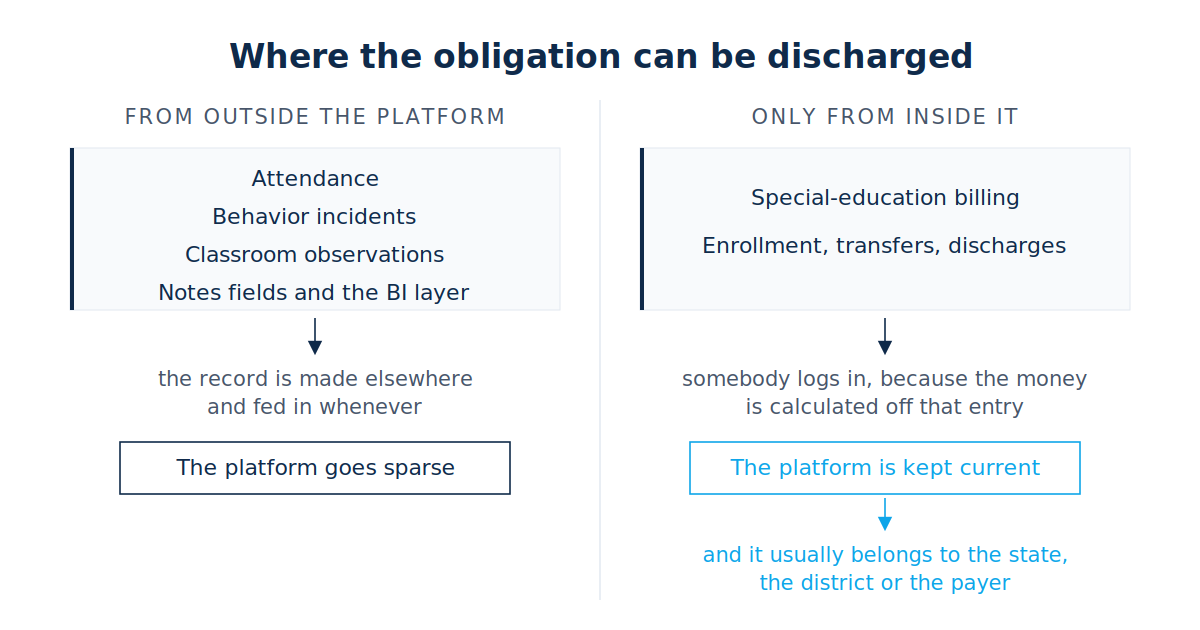
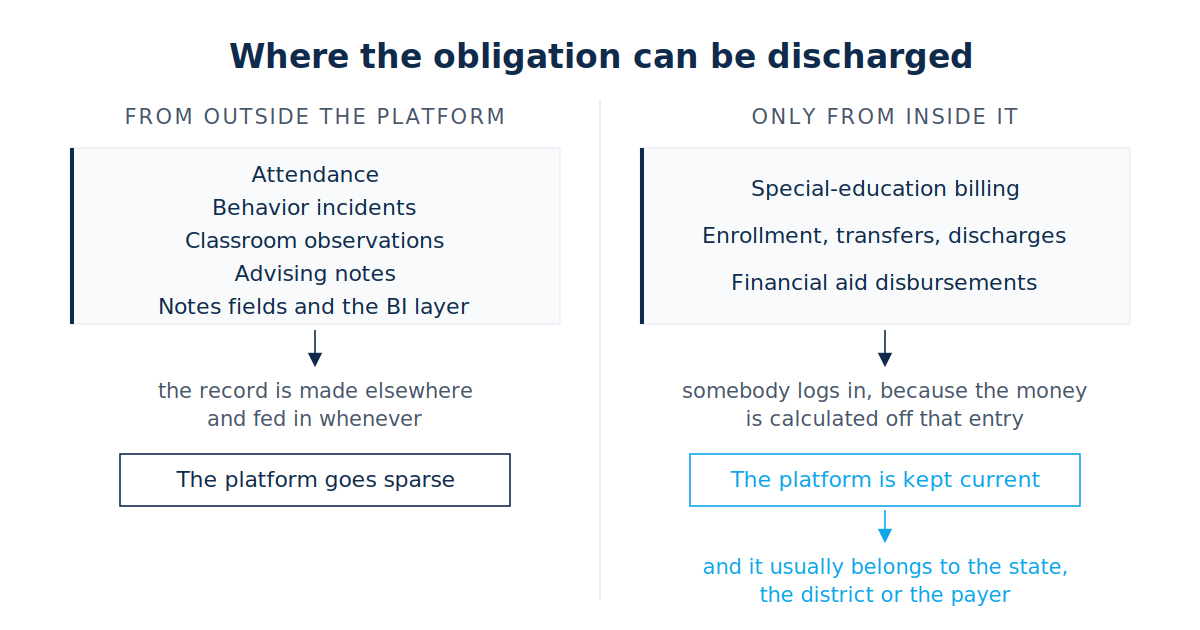
For the record: fold v1.17-v1.19
v1.17 Gate 5: the shadow-IT reframe re-attributed from Novid Parsi to Joel Larson
v1.18 higher education added to Whose record is it (FSA 15-day COD clock), and
      advising notes added to the can-be-fed-later group
v1.19 figure rebuilt to match: advising notes and financial aid disbursements
      added, boxes taller, everything below shifted down

Figure verified: all labels at or above the 21px floor, nothing outside the
canvas, nothing crossing the divider (the title spans it by design, above the
line's y-start). MD/JSX back in sync at 76/76 units.

diff --git a/app/library/essays.tsx b/app/library/essays.tsx
@@ -10081,10 +10081,10 @@ export const ESSAYS: Essay[] = [
           There is a sharper version of this, and it sorts an organization&rsquo;s own platforms rather than its systems in general. Walk the portfolio and two groups come apart. The line between them is not compliance. Student discipline is collected federally, by a mandatory survey of all public school districts that covers discipline alongside enrollment and school climate (<a href="https://www.ed.gov/laws-and-policy/civil-rights-laws/civil-rights-data-collection-crdc" target="_blank" rel="noopener" className="text-accent hover:text-accent-2 no-underline border-b border-line-2 hover:border-accent pb-px">Civil Rights Data Collection</a>, U.S. Department of Education). Where a state requires classroom observations, that is an obligation too. Both groups carry one.
         </P>
         <P>
-          One group is kept current, even where every entry is manual. These are the systems an obligation can only be discharged inside. A special-education billing claim is filed from within the billing system, against each entry, and nothing outside it files the claim. Enrollment events, a transfer in or a discharge or a withdrawal, are recorded in the district&rsquo;s own student information system, which school staff reach with credentials that district issues, and the count that matters for funding is the one in there, not the copy the school holds in its own system. In both cases the money is calculated off an entry made in somebody else&rsquo;s system. That is what makes the obligation undischargeable from outside. A local file satisfies neither one, however carefully it is kept, so somebody has to log in.
+          One group is kept current, even where every entry is manual. These are the systems an obligation can only be discharged inside. A special-education billing claim is filed from within the billing system, against each entry, and nothing outside it files the claim. Enrollment events, a transfer in or a discharge or a withdrawal, are recorded in the district&rsquo;s own student information system, which school staff reach with credentials that district issues, and the count that matters for funding is the one in there, not the copy the school holds in its own system. Higher education runs the same way, with a clock attached. A school has fifteen calendar days to report a Pell or Direct Loan disbursement into the Department of Education&rsquo;s Common Origination and Disbursement system, which the school does not own, and it draws the funds down from the Department rather than from anything it holds itself (<a href="https://fsapartners.ed.gov/knowledge-center/fsa-handbook/2025-2026/vol4/ch2-disbursing-title-iv-funds" target="_blank" rel="noopener" className="text-accent hover:text-accent-2 no-underline border-b border-line-2 hover:border-accent pb-px">Federal Student Aid Handbook 2025-26, volume 4</a>). In each case the money is calculated off an entry made in somebody else&rsquo;s system. That is what makes the obligation undischargeable from outside. A local file satisfies none of them, however carefully it is kept, so somebody has to log in.
         </P>
         <P>
-          The other group can be fed later, and nothing governs how much later. Attendance is taken on paper or in a sheet and entered at the end of the day, or the next day, or at the end of the week. A behavior incident is written down somewhere and entered in retrospect. Nothing breaks when that slips, so nothing decides when it happens.
+          The other group can be fed later, and nothing governs how much later. Attendance is taken on paper or in a sheet and entered at the end of the day, or the next day, or at the end of the week. A behavior incident is written down somewhere and entered in retrospect. An advising note gets written between appointments, or after the term, or not at all. Nothing breaks when any of that slips, so nothing decides when it happens.
         </P>
         <P>
           The difference is not that one group is entered by hand and the other is not. Both are. A service delivered and a transfer recorded also begin as somebody&rsquo;s local note, before anyone logs in to file them. What changes is how long the note is allowed to sit there. Where a payment is calculated off the entry, the timing is not left to local habit, because somebody is waiting to be paid. Where nothing is calculated off it, the timing is whatever the week allows.
@@ -10114,7 +10114,7 @@ export const ESSAYS: Essay[] = [
           What that arrangement costs is worth stating, because everyone inside it already knows and nobody writes it down. The same record gets made twice. Once where the work happens, in a form the person can act on, and once where the obligation is discharged, in a form somebody outside requires. The organization pays for both, and only the second one is anybody&rsquo;s job.
         </P>
         <P>
-          Higher education has a name for the tool version of this. Novid Parsi, writing about shadow IT, argues that faculty install unsanctioned tools not out of disregard for policy but because the sanctioned path is slower than the need, which makes the unsanctioned tool a reading on the sanctioned one rather than a compliance failure (<a href="https://edtechmagazine.com/higher/article/2026/09/what-shadow-it-can-teach-higher-ed-tech-leaders-about-faculty-experience" target="_blank" rel="noopener" className="text-accent hover:text-accent-2 no-underline border-b border-line-2 hover:border-accent pb-px">Parsi, EdTech: Focus on Higher Education</a>, September 2026). He names the risk that follows, too: someone installs a tool, leaves, and a process now depends on something nobody can support. The spreadsheet is that same reading taken on the record instead of on the tool, and the difference matters. A tool someone adopted can be replaced. A record someone keeps privately is the organization&rsquo;s own account of what happened, held where the organization cannot see it.
+          Higher education has a name for the tool version of this. Joel Larson, who directs IT support at Kalamazoo Valley Community College, describes shadow IT as a timing problem rather than a discipline one: it is usually not done for malicious reasons, it is &ldquo;trying to meet a need within a certain time frame,&rdquo; and the sanctioned route has to be the one people actually want to use. That makes the unsanctioned tool a reading on the sanctioned one rather than a compliance failure. Novid Parsi, reporting it, names the risk that follows: someone installs a tool, leaves, and a process now depends on something nobody can support (<a href="https://edtechmagazine.com/higher/article/2026/09/what-shadow-it-can-teach-higher-ed-tech-leaders-about-faculty-experience" target="_blank" rel="noopener" className="text-accent hover:text-accent-2 no-underline border-b border-line-2 hover:border-accent pb-px">Parsi, EdTech: Focus on Higher Education</a>, September 2026). The spreadsheet is that same reading taken on the record instead of on the tool, and the difference matters. A tool someone adopted can be replaced. A record someone keeps privately is the organization&rsquo;s own account of what happened, held where the organization cannot see it.
         </P>
         <P>
           Once that happens, four things follow. I have watched some version of all four across the sectors I have worked in.
